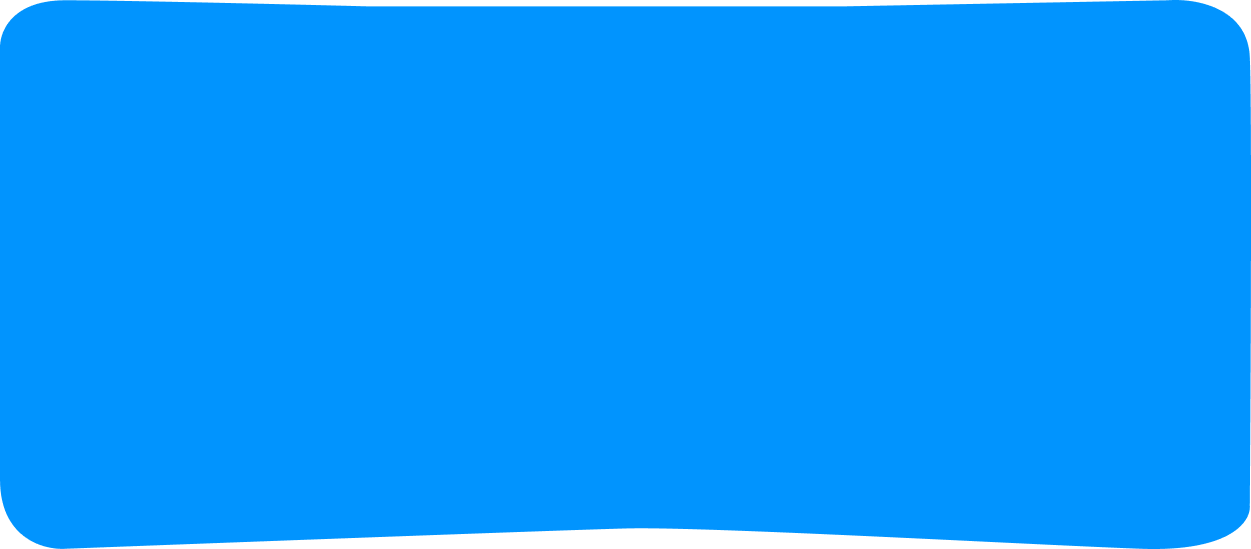
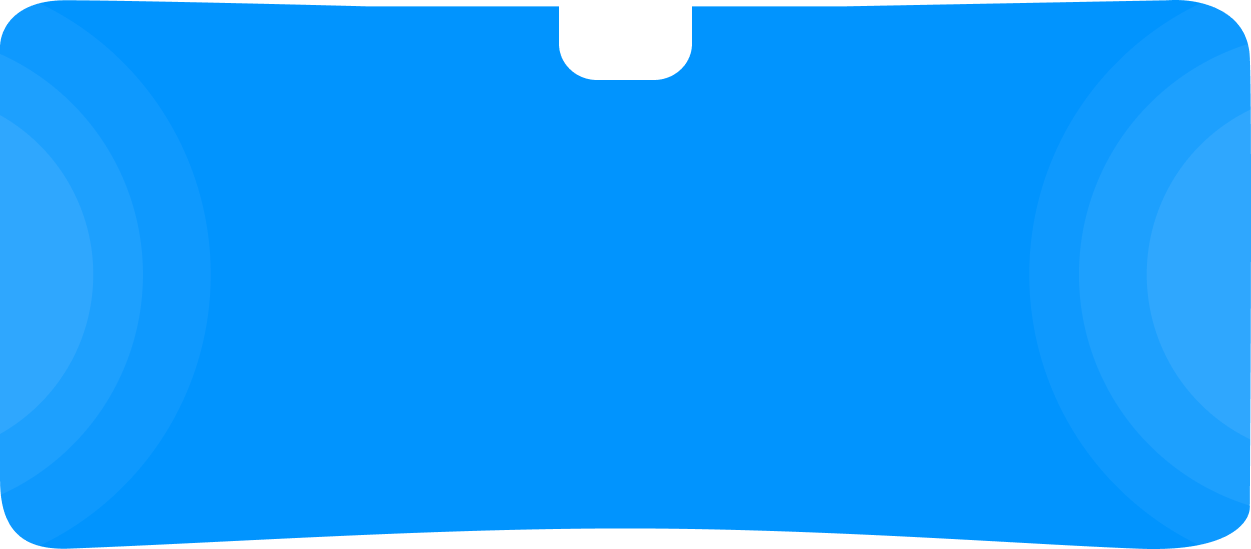
added leaderboard design

diff --git a/src/components/dashboard/leaderboard/TopThree.jsx b/src/components/dashboard/leaderboard/TopThree.jsx
@@ -1,0 +1,74 @@
+import React from "react";
+
+export default function TopThree({ first, second, third }) {
+  return (
+    <div>
+      <div className="flex gap-5">
+        <div className="relative w-full max-w-4xl h-[350px]">
+          <div className="custom-shape absolute inset-0" />
+          <div className="relative z-10 p-6 text-white">
+            <div className="flex flex-col gap-2 items-center -mt-10 mb-10">
+              <div className="w-16 h-16 rounded-full bg-white text-black text-2xl grid place-items-center">
+                <p>Y</p>
+              </div>
+              <p className="text-lg text-[#76C6E066]">user-234</p>
+            </div>
+            <div className="flex flex-col gap-4 items-center">
+              <img src="/home/leaderboard-2.png" />
+              <p className="text-3xl">
+                3 <span className="text-base text-[#3DB2E8AB]">Miners</span>
+              </p>
+            </div>
+          </div>
+        </div>
+        <div className="relative w-full max-w-4xl h-[350px] -mt-7">
+          <div className="custom-shape absolute inset-0" />
+          <div className="relative z-10 p-6 text-white">
+            <div className="flex flex-col gap-2 items-center -mt-10 mb-10">
+              {first?.profilePic ? (
+                <img
+                  src={first?.profilePic}
+                  alt="Profile pic"
+                  className="w-16 rounded-full object-cover"
+                />
+              ) : (
+                <div className="w-16 h-16 rounded-full bg-white text-black text-2xl grid place-items-center">
+                  <p>{first?.name?.slice(0, 1).toUpperCase()}</p>
+                </div>
+              )}
+
+              <p className="text-lg text-[#76C6E066]">{first?.name}</p>
+            </div>
+            <div className="flex flex-col gap-4 items-center">
+              <img src="/home/leaderboard-1.png" />
+              <p className="text-3xl">
+                {first?.totalMiners}{" "}
+                <span className="text-base text-[#3DB2E8AB]">Miners</span>
+              </p>
+              <p className="text-sm">
+                Earned {first?.totalRevenue.toFixed(7)} BTC
+              </p>
+            </div>
+          </div>
+        </div>
+        <div className="relative w-full max-w-4xl h-[350px]">
+          <div className="custom-shape absolute inset-0" />
+          <div className="relative z-10 p-6 text-white">
+            <div className="flex flex-col gap-2 items-center -mt-10 mb-10">
+              <div className="w-16 h-16 rounded-full bg-white text-black text-2xl grid place-items-center">
+                <p>Y</p>
+              </div>
+              <p className="text-lg text-[#76C6E066]">user-234</p>
+            </div>
+            <div className="flex flex-col gap-4 items-center">
+              <img src="/home/leaderboard-3.png" />
+              <p className="text-3xl">
+                1 <span className="text-base text-[#3DB2E8AB]">Miners</span>
+              </p>
+            </div>
+          </div>
+        </div>
+      </div>
+    </div>
+  );
+}

diff --git a/src/components/dashboard/statsSection/StatsMainCard.jsx b/src/components/dashboard/statsSection/StatsMainCard.jsx
@@ -1,4 +1,4 @@
-// import { motion } from "framer-motion";
+import { motion } from "framer-motion";
 import React, { useContext, useState } from "react";
 import { Link } from "react-router-dom";
 import GraphStat from "./GraphStat";
@@ -19,19 +19,24 @@ export default function StatsMainCard() {
 
   return (
     <div
-      className={`md:p-10 py-5 px-2 ${
-        on
-          ? "bg-gray-200"
-          : "bg-gradient-to-r from-[#59b3e4] via-[#0692DC] to-[#59b3e4]"
-      } lg:w-3/4 sm:w-3/4 w-full rounded-4xl relative flex flex-col md:gap-3 gap-5 items-center mb-10`}
+      // className={`md:p-10 py-5 px-2 ${
+      //   on
+      //     ? "bg-gray-200"
+      //     : "bg-gradient-to-r from-[#59b3e4] via-[#0692DC] to-[#59b3e4]"
+      // } lg:w-3/4 sm:w-3/4 w-full rounded-4xl relative flex flex-col md:gap-3 gap-5 items-center mb-10`}
       id="main-stat-card"
+      className="md:p-10 py-5 px-2 lg:w-3/4 sm:w-3/4 w-full rounded-4xl relative flex flex-col md:gap-3 gap-5 items-center mb-10 md:bg-[url('/home/card.png')] bg-[url('/home/card-sm.png')]
+    bg-no-repeat
+    md:bg-bottom
+    bg-center
+    bg-cover"
     >
       {on ? (
         <GraphStat />
       ) : (
         <div className="flex flex-col gap-2 items-center w-full ">
           <div className="flex flex-col gap-2 items-center w-full p-4 border-b border-[#57B9FF]">
-            <p>Current Balance</p>
+            <p className="mt-5">Current Balance</p>
             <div className="flex gap-5 justify-center items-center md:border-0 border-b border-[#57B9FF] md:pb-0 pb-2 w-full">
               <img src="/home/bitcoin.png" className="md:w-10 w-8" />
               <p className="md:text-2xl text-lg font-semibold">
@@ -114,7 +119,7 @@ export default function StatsMainCard() {
           ></motion.button>
         </div>
       </div> */}
-      <div className="flex lg:justify-center justify-between items-center w-full pt-3 lg:border-0 border-t border-[#57B9FF] px-5 ">
+      <div className="flex lg:justify-center justify-between items-center w-full pb-5 px-5 ">
         <Link
           to={"/dashboard/detailed"}
           className={`underline ${on && "text-black"}`}

diff --git a/src/components/dashboard/leaderboard/LeaderBoardTabs.jsx b/src/components/dashboard/leaderboard/LeaderBoardTabs.jsx
@@ -1,0 +1,53 @@
+import Box from "@mui/material/Box";
+import Tab from "@mui/material/Tab";
+import TabContext from "@mui/lab/TabContext";
+import TabList from "@mui/lab/TabList";
+import TabPanel from "@mui/lab/TabPanel";
+import { useState } from "react";
+
+export default function LeaderBoardTabs({ item1, item2, item3 }) {
+  const [value, setValue] = useState("1");
+
+  const handleChange = (event, newValue) => {
+    setValue(newValue);
+  };
+  return (
+    <Box
+      sx={{
+        typography: "body1",
+        marginTop: "20px",
+        width: "100%",
+        minWidth: "100%",
+      }}
+    >
+      <TabContext value={value}>
+        <Box
+          sx={{
+            borderBottom: 1,
+            borderColor: "divider",
+          }}
+        >
+          <TabList
+            onChange={handleChange}
+            aria-label="lab API tabs example"
+            sx={{
+              backgroundColor: "#011532",
+              width: "fit-content",
+              marginX: "auto",
+              marginBottom: "30px",
+              borderRadius: "7px",
+              padding: "5px",
+            }}
+          >
+            <Tab label="Most Machines" value="1" sx={{ color: "#76C6E066" }} />
+            <Tab label="Most BTC" value="2" sx={{ color: "#76C6E066" }} />
+            <Tab label="Most Hashrate" value="3" sx={{ color: "#76C6E066" }} />
+          </TabList>
+        </Box>
+        <TabPanel value="1">{item1}</TabPanel>
+        <TabPanel value="2">{item2}</TabPanel>
+        <TabPanel value="3">{item3}</TabPanel>
+      </TabContext>
+    </Box>
+  );
+}

diff --git a/src/components/dashboard/leaderboard/Leaderboard.jsx b/src/components/dashboard/leaderboard/Leaderboard.jsx
@@ -1,0 +1,50 @@
+import React from "react";
+import LeaderBoardTabs from "./LeaderBoardTabs";
+import TopThree from "./TopThree";
+import {
+  useGetBTCLeaderboard,
+  useGetHashrateLeaderboard,
+  useGetMinerLeaderboard,
+} from "../../../hooks/leaderboard/useLeaderboard";
+import Loading from "../../Loading";
+
+export default function Leaderboard() {
+  const { data: btc } = useGetBTCLeaderboard();
+  const { data: hashrate } = useGetHashrateLeaderboard();
+  const { isLoading, data: miners } = useGetMinerLeaderboard();
+  return isLoading ? (
+    <Loading />
+  ) : (
+    <div className="my-7">
+      <p className="text-[#76C6E0] text-xl text-center">
+        Top Miners Leaderboard
+      </p>
+      <p className="text-[#979797] text-center text-sm">
+        See who's leading the mining race
+      </p>
+      <LeaderBoardTabs
+        item1={
+          <TopThree
+            first={miners.top10?.[0]}
+            second={miners.top10?.[1]}
+            third={miners.top10?.[2]}
+          />
+        }
+        item2={
+          <TopThree
+            first={btc.top10?.[0]}
+            second={btc.top10?.[1]}
+            third={btc.top10?.[2]}
+          />
+        }
+        item3={
+          <TopThree
+            first={hashrate.top10?.[0]}
+            second={hashrate.top10?.[1]}
+            third={hashrate.top10?.[2]}
+          />
+        }
+      />
+    </div>
+  );
+}

diff --git a/src/pages/dashboard/DashBoardPage.jsx b/src/pages/dashboard/DashBoardPage.jsx
@@ -4,6 +4,7 @@ import ProductSuggestions from "../../components/dashboard/products/ProductSugge
 import StatsSection from "../../components/dashboard/statsSection/StatsSection";
 import { UserContext } from "../../UserContext";
 import NewUserSection from "../../components/dashboard/NewUser/NewUserSection";
+import Leaderboard from "../../components/dashboard/leaderboard/Leaderboard";
 
 export default function DashBoardPage() {
   const { user } = useContext(UserContext);
@@ -14,7 +15,7 @@ export default function DashBoardPage() {
     <div className="px-5 md:px-10 lg:px-[120px] xl:px-[180px] py-10 ">
       {user?.ownedMiners?.length > 0 ? <StatsSection /> : <NewUserSection />}
       {/* <NewUserLanding /> */}
-
+      <Leaderboard />
       {/* <LivePrice /> */}
       <ProductSuggestions />
     </div>

diff --git a/src/index.css b/src/index.css
@@ -87,3 +87,24 @@ body {
 .inter {
   font-family: "Inter", sans-serif;
 }
+
+.custom-shape {
+  background: linear-gradient(
+    to bottom,
+    #050b1f 0%,
+    #0b1a3a 15%,
+    #050b1f 50%,
+    #020615 100%
+  );
+  clip-path: polygon(10% 0%, 90% 0%, 100% 12%, 100% 100%, 0% 100%, 0% 12%);
+  border-radius: 16px;
+}
+/* .custom-shape::after {
+  content: "";
+  position: absolute;
+  top: 40px;
+
+  width: 100%;
+  height: 1px;
+  background: rgba(255, 255, 255, 0.15);
+} */
